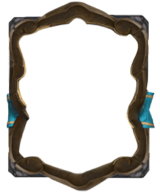
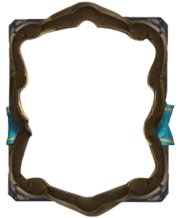
(feat) MiniCards

diff --git a/src/components/Categorias/CardCategoria/index.jsx b/src/components/Categorias/CardCategoria/index.jsx
@@ -1,9 +1,48 @@
 import styles from "./CardCategoria.module.scss"
+import armacao from "../image/categoriaCard_armacao.png"
+import faixa from "../image/categoriaCard_Faixa.png"
+import VanillaTilt from 'vanilla-tilt';
+import React, { useEffect, useRef } from 'react'
 
-import React from 'react'
 
-export default function CardCategoria() {
+export default function CardCategoria({ nome, imagem  }) {
+
+  const tiltRef = useRef(null);
+
+  useEffect(() => {
+    if (tiltRef.current) {
+      VanillaTilt.init(tiltRef.current, {
+        max: 35,
+        speed: 500,
+        glare: true,
+        reverse: false,
+        "full-page-listening": false,
+        'max-glare': 1.5
+      });
+    }
+  }, []);
+
   return (
-    <div>CardCategoria</div>
-  )
-}
+
+    <>
+      <div className={`${styles.container_Card} tilt`} ref={tiltRef}>
+        <img className={styles.imgFundo} src={armacao} alt="" />
+        <div className={`${styles.card_base} ${styles.card_personagem}`}>
+          <img className={styles.card_personagem_imagem} src={imagem} alt="" />
+        </div>
+        <div className={`${styles.card_base} ${styles.card_faixa}`}>
+          <div className={styles.nome_container}>
+            <img className={styles.faixaContainer} src={faixa} alt="" />
+            
+              <h3 className={styles.nome}>
+                {nome}
+              </h3>
+          
+          </div>
+        </div>
+      </div>
+    </>
+  );
+};
+
+

diff --git a/src/components/Categorias/CardCategoria/CardCategoria.module.scss b/src/components/Categorias/CardCategoria/CardCategoria.module.scss
@@ -1,0 +1,87 @@
+@import '../../../styles/variaveis';
+
+
+.container_Card {
+  width: 179px;
+  height: 190px;
+  position: relative;
+  transform-style: preserve-3d;
+  display: flex;
+  flex-direction: column;
+
+  border-radius: 10px;
+
+}
+
+.imgFundo {
+  position: absolute;
+  z-index: 0;
+  width: 179px;
+  height: 190px;
+  top: 0;
+  left: 0;
+
+
+  transform: translateZ(20px);
+}
+
+.card_base {
+  position: absolute;
+
+}
+
+
+
+//Alterar o Herói
+.card_personagem_imagem {
+  width: 179px;
+  transform: translate(-0px, -20px);
+  position: absolute;
+
+}
+
+.card_faixa {
+  display: flex;
+  justify-content: center;
+  align-items: center;
+  width: 179px;
+  height: 190px;
+  position: relative;
+  transform: translateZ(40px);
+}
+
+.faixaContainer {
+  position: absolute;
+  top: 0px;
+  left: 8px;
+}
+
+.nome_container {
+  position: absolute;
+  bottom: 0px;
+  left: 0px;
+  width: 179px;
+  height: 190px;
+  display: flex;
+  justify-content: center;
+  align-items: center;
+}
+
+
+.nome {
+
+  position: absolute;
+
+  bottom: 10px;
+
+  position: absolute;
+letter-spacing: 4px;
+text-shadow:
+-1px -1px 0 black,
+1px -1px 0 black,
+-1px 1px 0 black,
+1px 1px 0 black;
+  font-size: 15px;
+  color: $cyberblue;
+  font-family: $fonte-normal-WTF-Goblin;
+}

diff --git a/src/components/Categorias/index.jsx b/src/components/Categorias/index.jsx
@@ -1,8 +1,22 @@
+import CardCategoria from "./CardCategoria"
 import styles from "./Categorias.module.scss"
 import React from 'react'
-
+import dados from "../../assets/json/dados.json"
 export default function Categorias() {
+
+  const categorias = dados.Categorias;
+
   return (
-    <div>Categorias</div>
+    <section className={styles.container}>
+
+      <h1 className={styles.titulo}>Busque por categoria:</h1>
+      <div className={styles.card_container}>
+        {categorias.map((categoria) => (
+          <CardCategoria key={categoria.id} imagem={categoria.imagem} nome={categoria.nomeCategoria} />
+        ))
+        }
+      </div>
+    </section>
   )
+
 }

diff --git a/src/styles/_variaveis.scss b/src/styles/_variaveis.scss
@@ -17,14 +17,20 @@ $corBgBotaoClaro-WTF: rgba(225, 223, 221, 1);
 $corBgBotaoAzulClara-WTF: rgba(97, 178, 205, 1);
 $corBgBotaoEscuro-WTF: rgba(81, 55, 32, 1);
 $corBgBotaoFundo-WTF: rgba(120, 89, 81, 1);
-$corBgBotaoShadowClara-WTF: rgb(179, 151, 144);
+
+
+$corMaisEscura: rgba(217, 202, 170, 1); // #D9CAAA em RGBA
+
+
+
+
 
 $corBgBotaoAzulEscuro-WTF: rgba(20, 47, 60, 1);
 
 $colorLetra-Padrao-WTF: rgba(100, 70, 81, 1);
 //$colorBg-WTF:rgba(238, 219, 188, 1);
 $colorBg-WTF:rgba(255, 235, 207, 1);
-
+$corBgBotaoShadowClara-WTF: rgb(179, 151, 144);
 
 
 

diff --git a/src/Paginas/PaginaInicial/index.jsx b/src/Paginas/PaginaInicial/index.jsx
@@ -2,6 +2,7 @@ import React from 'react'
 import styles from './PaginaInicial.module.scss'
 import Deck from '../../components/Decks'
 import dados from '../../assets/json/dados.json'
+import Categorias from '../../components/Categorias';
 export default function PaginaInicial() {
 
  const goblin = dados.Goblins; 
@@ -9,6 +10,7 @@ export default function PaginaInicial() {
 
   return (
     <>
+    <Categorias/>
     <div className={styles.container}>
   <Deck tipo={"CardPremiunVerde"} tribo={goblin}/>
     </div>

diff --git a/src/components/Categorias/Categorias.module.scss b/src/components/Categorias/Categorias.module.scss
@@ -1,0 +1,27 @@
+@import "../../styles/variaveis";
+
+
+
+.container{
+  width: 100vw;
+  height: fit-content;
+  display: flex;
+  flex-direction: column;
+  justify-content: center;
+  align-items: center;
+
+ // background-color: $colorBg-WTF;
+
+.card_container{
+  display: flex;
+  margin:40px;
+  gap: 20px;
+}
+
+.titulo{
+font-family: $fonte-normal-WTF;
+}
+
+
+
+}

diff --git a/src/styles/estilosGlobais.scss b/src/styles/estilosGlobais.scss
@@ -7,7 +7,7 @@
   padding: 0;
   box-sizing: border-box;
   width: 100vw;
-  background-color:  $colorTribFundo;
+  background-image: linear-gradient(to bottom, $colorBg-WTF, $corMaisEscura);
   overflow-x: hidden;
  }
 
